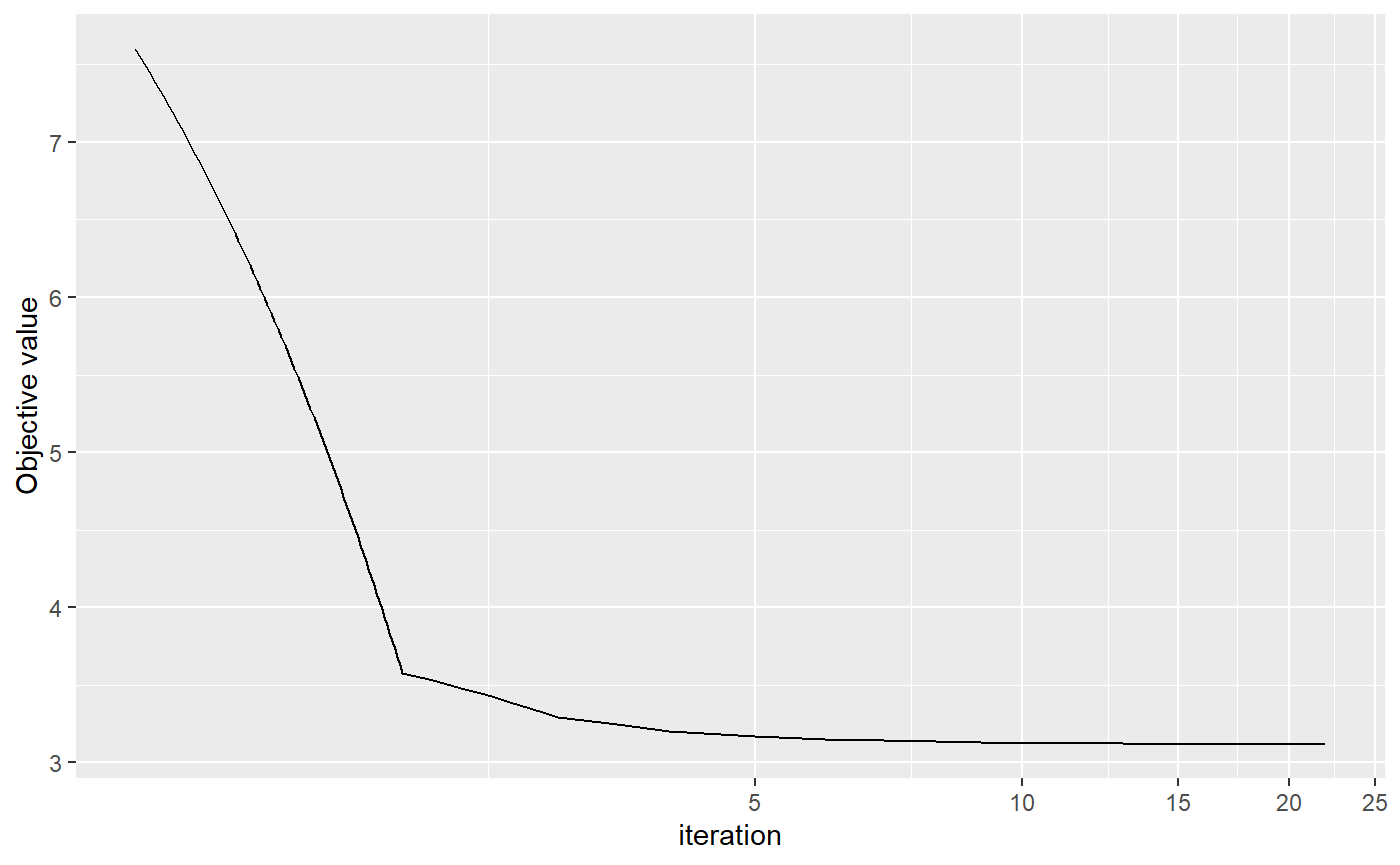
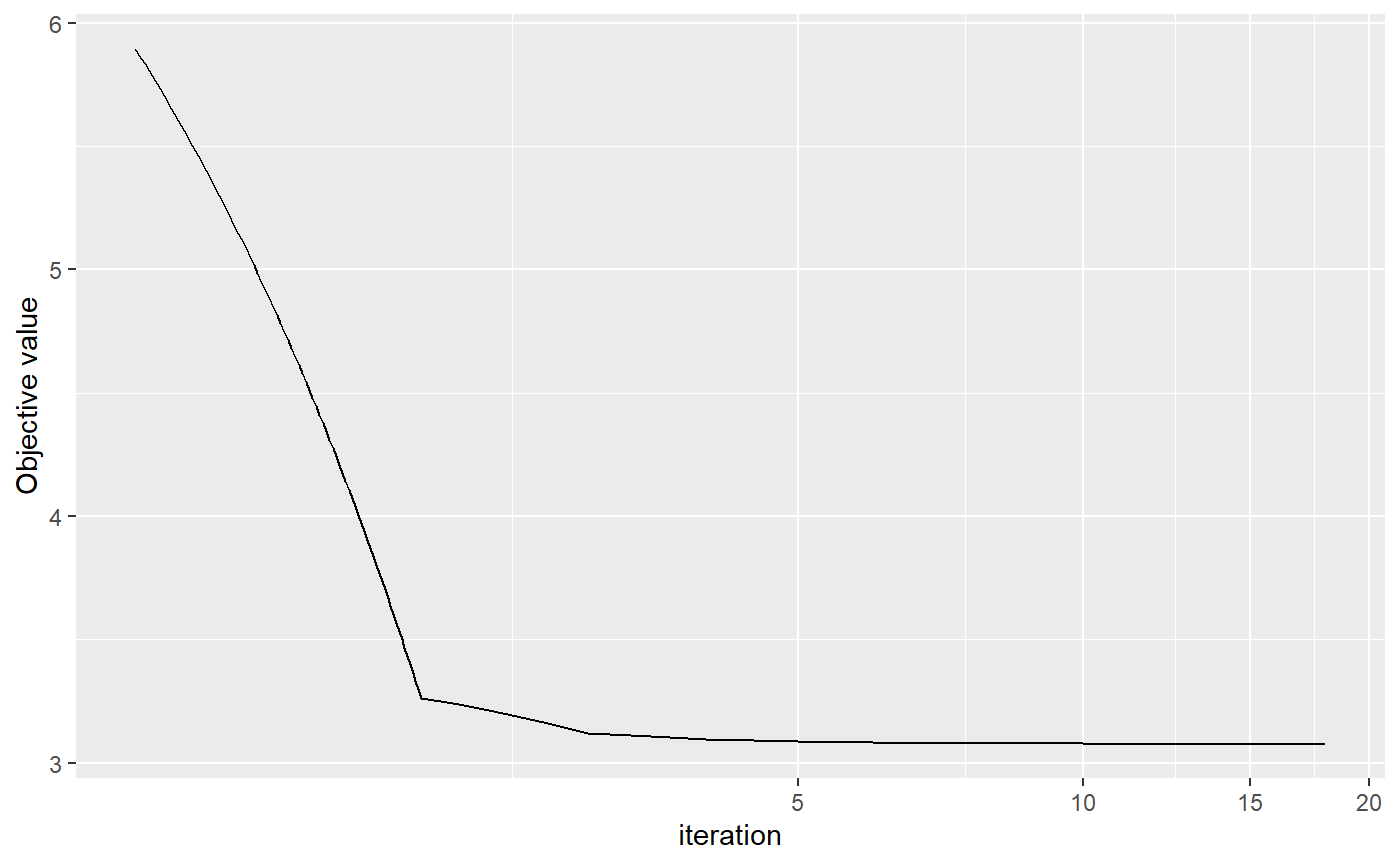
changed update arguments; updated travis version, pkgdown page.

diff --git a/docs/articles/RRRR.html b/docs/articles/RRRR.html
@@ -133,10 +133,10 @@
 <a class="sourceLine" id="cb2-5" title="5"><span class="co">#&gt; Specifications:</span></a>
 <a class="sourceLine" id="cb2-6" title="6"><span class="co">#&gt;    N    P    Q    R    r </span></a>
 <a class="sourceLine" id="cb2-7" title="7"><span class="co">#&gt; 1000    3    3    1    1 </span></a>
-<a class="sourceLine" id="cb2-8" title="8"><span class="co">#&gt;       mu        A       B         D Sigma1 Sigma2 Sigma3</span></a>
-<a class="sourceLine" id="cb2-9" title="9"><span class="co">#&gt; [1,] 0.1  1.72369  1.0446 -0.600472      1      0      0</span></a>
-<a class="sourceLine" id="cb2-10" title="10"><span class="co">#&gt; [2,] 0.1 -0.34443  0.9149 -0.025637      0      1      0</span></a>
-<a class="sourceLine" id="cb2-11" title="11"><span class="co">#&gt; [3,] 0.1  1.11815 -1.7387 -1.000031      0      0      1</span></a></code></pre></div>
+<a class="sourceLine" id="cb2-8" title="8"><span class="co">#&gt;       mu         A        B        D Sigma1 Sigma2 Sigma3</span></a>
+<a class="sourceLine" id="cb2-9" title="9"><span class="co">#&gt; [1,] 0.1  0.983765  0.79694  0.18106      1      0      0</span></a>
+<a class="sourceLine" id="cb2-10" title="10"><span class="co">#&gt; [2,] 0.1 -0.447569  0.40427 -2.10067      0      1      0</span></a>
+<a class="sourceLine" id="cb2-11" title="11"><span class="co">#&gt; [3,] 0.1  0.084875 -0.87175 -1.02911      0      0      1</span></a></code></pre></div>
 <p>A number of parameters can be specified. See <code><a href="../reference/RRR_sim.html">?RRR_sim</a></code>. The default arguments are set in such a way that the matrix resulted from <span class="math inline">\(AB'\)</span> will be a reduced rank coefficient matrix with rank of <span class="math inline">\(r\)</span>.</p>
 <div class="sourceCode" id="cb3"><pre class="sourceCode r"><code class="sourceCode r"><a class="sourceLine" id="cb3-1" title="1"><span class="kw"><a href="https://rdrr.io/r/utils/str.html">str</a></span>(data)</a>
 <a class="sourceLine" id="cb3-2" title="2"><span class="co">#&gt; List of 4</span></a>
@@ -145,16 +145,16 @@
 <a class="sourceLine" id="cb3-5" title="5"><span class="co">#&gt;   ..$ N    : num 1000</span></a>
 <a class="sourceLine" id="cb3-6" title="6"><span class="co">#&gt;   ..$ Q    : num 3</span></a>
 <a class="sourceLine" id="cb3-7" title="7"><span class="co">#&gt;   ..$ R    : num 1</span></a>
-<a class="sourceLine" id="cb3-8" title="8"><span class="co">#&gt;   ..$ A    : num [1:3, 1] 1.724 -0.344 1.118</span></a>
-<a class="sourceLine" id="cb3-9" title="9"><span class="co">#&gt;   ..$ B    : num [1:3, 1] 1.045 0.915 -1.739</span></a>
+<a class="sourceLine" id="cb3-8" title="8"><span class="co">#&gt;   ..$ A    : num [1:3, 1] 0.9838 -0.4476 0.0849</span></a>
+<a class="sourceLine" id="cb3-9" title="9"><span class="co">#&gt;   ..$ B    : num [1:3, 1] 0.797 0.404 -0.872</span></a>
 <a class="sourceLine" id="cb3-10" title="10"><span class="co">#&gt;   ..$ mu   : num [1:3] 0.1 0.1 0.1</span></a>
-<a class="sourceLine" id="cb3-11" title="11"><span class="co">#&gt;   ..$ D    : num [1:3, 1] -0.6005 -0.0256 -1</span></a>
+<a class="sourceLine" id="cb3-11" title="11"><span class="co">#&gt;   ..$ D    : num [1:3, 1] 0.181 -2.101 -1.029</span></a>
 <a class="sourceLine" id="cb3-12" title="12"><span class="co">#&gt;   ..$ r    : num 1</span></a>
 <a class="sourceLine" id="cb3-13" title="13"><span class="co">#&gt;   ..$ Sigma: num [1:3, 1:3] 1 0 0 0 1 0 0 0 1</span></a>
-<a class="sourceLine" id="cb3-14" title="14"><span class="co">#&gt;   ..$ innov: num [1:1000, 1:3] 0.372 -0.787 0.779 1.487 0.531 ...</span></a>
-<a class="sourceLine" id="cb3-15" title="15"><span class="co">#&gt;  $ y   : num [1:1000, 1:3] 6.19 -8.5 -3.42 3.54 -3.08 ...</span></a>
-<a class="sourceLine" id="cb3-16" title="16"><span class="co">#&gt;  $ x   : num [1:1000, 1:3] -0.0822 0.8575 -1.7067 1.7653 -0.7611 ...</span></a>
-<a class="sourceLine" id="cb3-17" title="17"><span class="co">#&gt;  $ z   : num [1:1000] 0.521 0.355 1.062 0.141 0.285 ...</span></a>
+<a class="sourceLine" id="cb3-14" title="14"><span class="co">#&gt;   ..$ innov: num [1:1000, 1:3] -7.651 1.051 -0.242 0.362 -0.533 ...</span></a>
+<a class="sourceLine" id="cb3-15" title="15"><span class="co">#&gt;  $ y   : num [1:1000, 1:3] -7.0634 0.5082 2.1952 -0.0518 -0.4226 ...</span></a>
+<a class="sourceLine" id="cb3-16" title="16"><span class="co">#&gt;  $ x   : num [1:1000, 1:3] 0.155 0.606 1.531 0.243 -1.262 ...</span></a>
+<a class="sourceLine" id="cb3-17" title="17"><span class="co">#&gt;  $ z   : num [1:1000] -0.981 0.0011 -1.5528 -0.1189 1.1397 ...</span></a>
 <a class="sourceLine" id="cb3-18" title="18"><span class="co">#&gt;  - attr(*, "class")= chr [1:2] "RRR_data" "list"</span></a></code></pre></div>
 <p>The returned list of <code>RRR_sim</code> contains the input specifications and the data points <span class="math inline">\(y\)</span>, <span class="math inline">\(x\)</span> and <span class="math inline">\(z\)</span>.</p>
 </div>
@@ -172,10 +172,10 @@
 <a class="sourceLine" id="cb4-7" title="7"><span class="co">#&gt; 1000    3    3    1    1 </span></a>
 <a class="sourceLine" id="cb4-8" title="8"><span class="co">#&gt; </span></a>
 <a class="sourceLine" id="cb4-9" title="9"><span class="co">#&gt; Coefficients:</span></a>
-<a class="sourceLine" id="cb4-10" title="10"><span class="co">#&gt;            mu        A        B         D     Sigma1    Sigma2     Sigma3</span></a>
-<a class="sourceLine" id="cb4-11" title="11"><span class="co">#&gt; [1,] 0.039603 -3.83047 -0.45091 -0.556895  2.7002465 -0.044767 -0.0044944</span></a>
-<a class="sourceLine" id="cb4-12" title="12"><span class="co">#&gt; [2,] 0.183159  0.85461 -0.42058  0.066587 -0.0447670  3.360986  0.0671544</span></a>
-<a class="sourceLine" id="cb4-13" title="13"><span class="co">#&gt; [3,] 0.164763 -2.51181  0.78704 -0.967548 -0.0044944  0.067154  2.7998272</span></a></code></pre></div>
+<a class="sourceLine" id="cb4-10" title="10"><span class="co">#&gt;            mu         A        B        D   Sigma1   Sigma2   Sigma3</span></a>
+<a class="sourceLine" id="cb4-11" title="11"><span class="co">#&gt; [1,] 0.045795 -1.259760 -0.61628  0.21012  4.22605  3.25793 -0.42603</span></a>
+<a class="sourceLine" id="cb4-12" title="12"><span class="co">#&gt; [2,] 0.093288  0.586249 -0.40540 -2.15849  3.25793 11.83386  0.72473</span></a>
+<a class="sourceLine" id="cb4-13" title="13"><span class="co">#&gt; [3,] 0.177268 -0.095891  0.72643 -1.03526 -0.42603  0.72473  2.66495</span></a></code></pre></div>
 <p>The matrix <span class="math inline">\(z\)</span> and the constant <span class="math inline">\(\mu\)</span> term are optional.</p>
 <div class="sourceCode" id="cb5"><pre class="sourceCode r"><code class="sourceCode r"><a class="sourceLine" id="cb5-1" title="1">res_gmle &lt;-<span class="st"> </span><span class="kw"><a href="../reference/RRR.html">RRR</a></span>(<span class="dt">y=</span>data<span class="op">$</span>y, <span class="dt">x=</span>data<span class="op">$</span>x, <span class="dt">z=</span>data<span class="op">$</span>z, <span class="dt">mu =</span> <span class="ot">FALSE</span>)</a>
 <a class="sourceLine" id="cb5-2" title="2">res_gmle &lt;-<span class="st"> </span><span class="kw"><a href="../reference/RRR.html">RRR</a></span>(<span class="dt">y=</span>data<span class="op">$</span>y, <span class="dt">x=</span>data<span class="op">$</span>x, <span class="dt">z=</span><span class="ot">NULL</span>, <span class="dt">mu =</span> <span class="ot">TRUE</span>)</a>
@@ -199,10 +199,10 @@
 <a class="sourceLine" id="cb6-11" title="11"><span class="co">#&gt; 1000    3    3    1    1 </span></a>
 <a class="sourceLine" id="cb6-12" title="12"><span class="co">#&gt; </span></a>
 <a class="sourceLine" id="cb6-13" title="13"><span class="co">#&gt; Coefficients:</span></a>
-<a class="sourceLine" id="cb6-14" title="14"><span class="co">#&gt;            mu       A        B         D    Sigma1     Sigma2    Sigma3</span></a>
-<a class="sourceLine" id="cb6-15" title="15"><span class="co">#&gt; [1,] 0.093236 -1.8420 -0.96372 -0.640782  0.740139 -0.0226235 0.0350687</span></a>
-<a class="sourceLine" id="cb6-16" title="16"><span class="co">#&gt; [2,] 0.136558  0.3579 -0.85394  0.019818 -0.022624  0.7227249 0.0036816</span></a>
-<a class="sourceLine" id="cb6-17" title="17"><span class="co">#&gt; [3,] 0.099127 -1.2053  1.61086 -0.974902  0.035069  0.0036816 0.6687717</span></a></code></pre></div>
+<a class="sourceLine" id="cb6-14" title="14"><span class="co">#&gt;           mu         A        B        D    Sigma1    Sigma2    Sigma3</span></a>
+<a class="sourceLine" id="cb6-15" title="15"><span class="co">#&gt; [1,] 0.10547 -0.603179 -1.25116  0.26056  0.678789 -0.013302 -0.045876</span></a>
+<a class="sourceLine" id="cb6-16" title="16"><span class="co">#&gt; [2,] 0.12150  0.309647 -0.73767 -2.12349 -0.013302  0.714010 -0.057932</span></a>
+<a class="sourceLine" id="cb6-17" title="17"><span class="co">#&gt; [3,] 0.12914 -0.048116  1.48365 -1.10057 -0.045876 -0.057932  0.715509</span></a></code></pre></div>
 <p>Additional arguments that are worth noticing are <code>itr</code>, which control the maximum number of iteration, and <code>earlystop</code>, which is the criteria to stop the algorithm early. The algorithm will stop if the improvement on objective value is small than <code>earlystop</code> <span class="math inline">\(\times\ objective\_from\_last\_iteration\)</span>.</p>
 <p>This method is an iterative optimization algorithm so we can use the inbuilt <code>plot.RRRR</code> method to see the convergence plot of the algorithm.</p>
 <div class="sourceCode" id="cb7"><pre class="sourceCode r"><code class="sourceCode r"><a class="sourceLine" id="cb7-1" title="1"><span class="kw"><a href="https://rdrr.io/r/graphics/plot.html">plot</a></span>(res_mm, <span class="dt">aes_x =</span> <span class="st">"iteration"</span>, <span class="dt">xlog10 =</span> <span class="ot">TRUE</span>)</a></code></pre></div>
@@ -233,10 +233,10 @@
 <a class="sourceLine" id="cb8-10" title="10"><span class="co">#&gt;         1000            3            1            1          100           10 </span></a>
 <a class="sourceLine" id="cb8-11" title="11"><span class="co">#&gt; </span></a>
 <a class="sourceLine" id="cb8-12" title="12"><span class="co">#&gt; Coefficients:</span></a>
-<a class="sourceLine" id="cb8-13" title="13"><span class="co">#&gt;            mu        A        B         D    Sigma1     Sigma2    Sigma3</span></a>
-<a class="sourceLine" id="cb8-14" title="14"><span class="co">#&gt; [1,] 0.092680 -1.85501 -0.95653 -0.641790  0.754996 -0.0226581 0.0354821</span></a>
-<a class="sourceLine" id="cb8-15" title="15"><span class="co">#&gt; [2,] 0.137085  0.36005 -0.84807  0.019634 -0.022658  0.7378883 0.0033199</span></a>
-<a class="sourceLine" id="cb8-16" title="16"><span class="co">#&gt; [3,] 0.099346 -1.21334  1.59930 -0.975143  0.035482  0.0033199 0.6815613</span></a></code></pre></div>
+<a class="sourceLine" id="cb8-13" title="13"><span class="co">#&gt;           mu         A        B        D    Sigma1    Sigma2    Sigma3</span></a>
+<a class="sourceLine" id="cb8-14" title="14"><span class="co">#&gt; [1,] 0.10230 -0.605474 -1.24821  0.26002  0.684516 -0.015485 -0.045419</span></a>
+<a class="sourceLine" id="cb8-15" title="15"><span class="co">#&gt; [2,] 0.11987  0.309004 -0.73794 -2.12325 -0.015485  0.719541 -0.058043</span></a>
+<a class="sourceLine" id="cb8-16" title="16"><span class="co">#&gt; [3,] 0.13023 -0.048169  1.47921 -1.10232 -0.045419 -0.058043  0.719395</span></a></code></pre></div>
 <p>The simulated data set is of size 1000. In the above command, in the first iteration 100 realisations are used in the estimation with 10 more data points in each of the following iteration. Because of the increasing data size, the estimation will be slower the longer the algorithm run. Therefore, the estimated time left in the progress bar is not very accurate in this sense.</p>
 <p>The output from <code>ORRRR</code> can also plotted using <code>plot.RRRR</code>.</p>
 <div class="sourceCode" id="cb9"><pre class="sourceCode r"><code class="sourceCode r"><a class="sourceLine" id="cb9-1" title="1"><span class="kw"><a href="https://rdrr.io/r/graphics/plot.html">plot</a></span>(res_smm)</a></code></pre></div>
@@ -259,7 +259,7 @@
 </h2>
 <p>With the result from <code>ORRRR</code>, user can still update it with newly achieved data using function <code>update</code>. Note the result from <code>RRRR</code> can also be updated where it simply takes the result from <code>RRRR</code> as the starting point in online estimation.</p>
 <div class="sourceCode" id="cb11"><pre class="sourceCode r"><code class="sourceCode r"><a class="sourceLine" id="cb11-1" title="1">newdata &lt;-<span class="st"> </span><span class="kw"><a href="../reference/RRR_sim.html">RRR_sim</a></span>()</a>
-<a class="sourceLine" id="cb11-2" title="2">res2_smm &lt;-<span class="st"> </span><span class="kw"><a href="https://rdrr.io/r/stats/update.html">update</a></span>(res_smm, <span class="dt">y=</span>newdata<span class="op">$</span>y, <span class="dt">x=</span>newdata<span class="op">$</span>x, <span class="dt">z=</span>newdata<span class="op">$</span>z)</a>
+<a class="sourceLine" id="cb11-2" title="2">res2_smm &lt;-<span class="st"> </span><span class="kw"><a href="https://rdrr.io/r/stats/update.html">update</a></span>(res_smm, <span class="dt">newy=</span>newdata<span class="op">$</span>y, <span class="dt">newx=</span>newdata<span class="op">$</span>x, <span class="dt">newz=</span>newdata<span class="op">$</span>z)</a>
 <a class="sourceLine" id="cb11-3" title="3">res2_smm</a>
 <a class="sourceLine" id="cb11-4" title="4"><span class="co">#&gt; Online Robust Reduced-Rank Regression</span></a>
 <a class="sourceLine" id="cb11-5" title="5"><span class="co">#&gt; ------</span></a>
@@ -270,10 +270,10 @@
 <a class="sourceLine" id="cb11-10" title="10"><span class="co">#&gt;         2000            3            1            1         1010           10 </span></a>
 <a class="sourceLine" id="cb11-11" title="11"><span class="co">#&gt; </span></a>
 <a class="sourceLine" id="cb11-12" title="12"><span class="co">#&gt; Coefficients:</span></a>
-<a class="sourceLine" id="cb11-13" title="13"><span class="co">#&gt;           mu        A       B        D   Sigma1   Sigma2   Sigma3</span></a>
-<a class="sourceLine" id="cb11-14" title="14"><span class="co">#&gt; [1,] 0.08517 -0.90130 -1.0060 -0.86643  2.80619 -0.46104  1.22083</span></a>
-<a class="sourceLine" id="cb11-15" title="15"><span class="co">#&gt; [2,] 0.10249  0.16415 -1.0530  0.13410 -0.46104  0.87152 -0.24126</span></a>
-<a class="sourceLine" id="cb11-16" title="16"><span class="co">#&gt; [3,] 0.14981 -0.61164  2.0253 -0.95910  1.22083 -0.24126  1.54696</span></a></code></pre></div>
+<a class="sourceLine" id="cb11-13" title="13"><span class="co">#&gt;            mu       A        B        D Sigma1  Sigma2  Sigma3</span></a>
+<a class="sourceLine" id="cb11-14" title="14"><span class="co">#&gt; [1,] 0.134625 0.97269  1.97904  0.24345 5.1794 2.47553 1.52633</span></a>
+<a class="sourceLine" id="cb11-15" title="15"><span class="co">#&gt; [2,] 0.169277 0.10070  1.15413 -1.37367 2.4755 3.08741 0.88236</span></a>
+<a class="sourceLine" id="cb11-16" title="16"><span class="co">#&gt; [3,] 0.085701 0.23743 -0.58785 -1.08136 1.5263 0.88236 1.34380</span></a></code></pre></div>
 <p>Without other arguments specified, <code>update</code> will just take the original specification in the model. If it applies to output of <code>RRRR</code>, then the default would be the default arguments in <code>ORRRR</code>, i.e., with <code>method</code> set to “SMM” and <code>addon</code> set to 10.</p>
 </div>
 <div id="ref" class="section level2">

diff --git a/docs/reference/index.html b/docs/reference/index.html
@@ -132,34 +132,44 @@
     <tbody>
       <tr>
         <th colspan="2">
-          <h2 id="section-all-functions" class="hasAnchor"><a href="#section-all-functions" class="anchor"></a>All functions</h2>
+          <h2 id="section-package" class="hasAnchor"><a href="#section-package" class="anchor"></a>Package</h2>
           <p class="section-desc"></p>
         </th>
       </tr>
       <tr>
         
         <td>
-          <p><code><a href="ORRRR.html">ORRRR()</a></code> </p>
+          <p><code><a href="RRRR-package.html">RRRR-package</a></code> </p>
         </td>
-        <td><p>Online Robust Reduced-Rank Regression</p></td>
-      </tr><tr>
+        <td><p>Online Robust Reduced-Rank Regression Estimation</p></td>
+      </tr>
+    </tbody><tbody>
+      <tr>
+        <th colspan="2">
+          <h2 id="section-simulation-function" class="hasAnchor"><a href="#section-simulation-function" class="anchor"></a>Simulation function</h2>
+          <p class="section-desc"></p>
+        </th>
+      </tr>
+      <tr>
         
         <td>
-          <p><code><a href="plot.RRRR.html">plot(<i>&lt;RRRR&gt;</i>)</a></code> </p>
+          <p><code><a href="RRR_sim.html">RRR_sim()</a></code> </p>
         </td>
-        <td><p>Plot Objective value of a Robust Reduced-Rank Regression</p></td>
-      </tr><tr>
+        <td><p>Simulating data for Reduced-Rank Regression</p></td>
+      </tr>
+    </tbody><tbody>
+      <tr>
+        <th colspan="2">
+          <h2 id="section-estimation-functions" class="hasAnchor"><a href="#section-estimation-functions" class="anchor"></a>Estimation functions</h2>
+          <p class="section-desc"></p>
+        </th>
+      </tr>
+      <tr>
         
         <td>
           <p><code><a href="RRR.html">RRR()</a></code> </p>
         </td>
         <td><p>Reduced-Rank Regression using Gaussian MLE</p></td>
-      </tr><tr>
-        
-        <td>
-          <p><code><a href="RRRR-package.html">RRRR-package</a></code> </p>
-        </td>
-        <td><p>Online Robust Reduced-Rank Regression Estimation</p></td>
       </tr><tr>
         
         <td>
@@ -169,15 +179,37 @@
       </tr><tr>
         
         <td>
-          <p><code><a href="RRR_sim.html">RRR_sim()</a></code> </p>
+          <p><code><a href="ORRRR.html">ORRRR()</a></code> </p>
         </td>
-        <td><p>Simulating data for Reduced-Rank Regression</p></td>
-      </tr><tr>
+        <td><p>Online Robust Reduced-Rank Regression</p></td>
+      </tr>
+    </tbody><tbody>
+      <tr>
+        <th colspan="2">
+          <h2 id="section-update-function" class="hasAnchor"><a href="#section-update-function" class="anchor"></a>Update function</h2>
+          <p class="section-desc"></p>
+        </th>
+      </tr>
+      <tr>
         
         <td>
           <p><code><a href="update.RRRR.html">update(<i>&lt;RRRR&gt;</i>)</a></code> </p>
         </td>
         <td><p>Update the RRRR/ORRRR type model with addition data</p></td>
+      </tr>
+    </tbody><tbody>
+      <tr>
+        <th colspan="2">
+          <h2 id="section-plot-method" class="hasAnchor"><a href="#section-plot-method" class="anchor"></a>Plot method</h2>
+          <p class="section-desc"></p>
+        </th>
+      </tr>
+      <tr>
+        
+        <td>
+          <p><code><a href="plot.RRRR.html">plot(<i>&lt;RRRR&gt;</i>)</a></code> </p>
+        </td>
+        <td><p>Plot Objective value of a Robust Reduced-Rank Regression</p></td>
       </tr>
     </tbody>
     </table>
@@ -186,7 +218,11 @@
   <div class="col-md-3 hidden-xs hidden-sm" id="sidebar">
     <h2>Contents</h2>
     <ul class="nav nav-pills nav-stacked">
-      <li><a href="#section-all-functions">All functions</a></li>
+      <li><a href="#section-package">Package</a></li>
+      <li><a href="#section-simulation-function">Simulation function</a></li>
+      <li><a href="#section-estimation-functions">Estimation functions</a></li>
+      <li><a href="#section-update-function">Update function</a></li>
+      <li><a href="#section-plot-method">Plot method</a></li>
     </ul>
   </div>
 </div>

diff --git a/docs/reference/update.RRRR.html b/docs/reference/update.RRRR.html
@@ -146,9 +146,9 @@ Estimation methods:</p><dl class='dl-horizontal'>
     <pre class="usage"><span class='co'># S3 method for RRRR</span>
 <span class='fu'><a href='https://rdrr.io/r/stats/update.html'>update</a></span>(
   <span class='no'>object</span>,
-  <span class='no'>y</span>,
-  <span class='no'>x</span>,
-  <span class='kw'>z</span> <span class='kw'>=</span> <span class='kw'>NULL</span>,
+  <span class='no'>newy</span>,
+  <span class='no'>newx</span>,
+  <span class='kw'>newz</span> <span class='kw'>=</span> <span class='kw'>NULL</span>,
   <span class='kw'>addon</span> <span class='kw'>=</span> <span class='no'>object</span>$<span class='no'>spec</span>$<span class='no'>addon</span>,
   <span class='kw'>method</span> <span class='kw'>=</span> <span class='no'>object</span>$<span class='no'>method</span>,
   <span class='kw'>SAAmethod</span> <span class='kw'>=</span> <span class='no'>object</span>$<span class='no'>SAAmethod</span>,
@@ -164,15 +164,15 @@ Estimation methods:</p><dl class='dl-horizontal'>
       <td><p>A model with class <code>RRRR</code>(<code>ORRRR</code>)</p></td>
     </tr>
     <tr>
-      <th>y</th>
+      <th>newy</th>
       <td><p>Matrix of dimension N*P, the new data y. The matrix for the response variables. See <code>Detail</code>.</p></td>
     </tr>
     <tr>
-      <th>x</th>
+      <th>newx</th>
       <td><p>Matrix of dimension N*Q, the new data x. The matrix for the explanatory variables to be projected. See <code>Detail</code>.</p></td>
     </tr>
     <tr>
-      <th>z</th>
+      <th>newz</th>
       <td><p>Matrix of dimension N*R, the new data z. The matrix for the explanatory variables not to be projected. See <code>Detail</code>.</p></td>
     </tr>
     <tr>
@@ -247,7 +247,7 @@ the innovation's distribution.</p>
 <span class='no'>data</span> <span class='kw'>&lt;-</span> <span class='fu'><a href='RRR_sim.html'>RRR_sim</a></span>()
 <span class='no'>newdata</span> <span class='kw'>&lt;-</span> <span class='fu'><a href='RRR_sim.html'>RRR_sim</a></span>()
 <span class='no'>res</span> <span class='kw'>&lt;-</span> <span class='fu'><a href='ORRRR.html'>ORRRR</a></span>(<span class='kw'>y</span><span class='kw'>=</span><span class='no'>data</span>$<span class='no'>y</span>, <span class='kw'>x</span><span class='kw'>=</span><span class='no'>data</span>$<span class='no'>x</span>, <span class='kw'>z</span> <span class='kw'>=</span> <span class='no'>data</span>$<span class='no'>z</span>)
-<span class='no'>res</span> <span class='kw'>&lt;-</span> <span class='fu'><a href='https://rdrr.io/r/stats/update.html'>update</a></span>(<span class='no'>res</span>, <span class='kw'>y</span><span class='kw'>=</span><span class='no'>newdata</span>$<span class='no'>y</span>, <span class='kw'>x</span><span class='kw'>=</span><span class='no'>newdata</span>$<span class='no'>x</span>, <span class='kw'>z</span><span class='kw'>=</span><span class='no'>newdata</span>$<span class='no'>z</span>)
+<span class='no'>res</span> <span class='kw'>&lt;-</span> <span class='fu'><a href='https://rdrr.io/r/stats/update.html'>update</a></span>(<span class='no'>res</span>, <span class='kw'>newy</span><span class='kw'>=</span><span class='no'>newdata</span>$<span class='no'>y</span>, <span class='kw'>newx</span><span class='kw'>=</span><span class='no'>newdata</span>$<span class='no'>x</span>, <span class='kw'>newz</span><span class='kw'>=</span><span class='no'>newdata</span>$<span class='no'>z</span>)
 <span class='no'>res</span></div><div class='output co'>#&gt; Online Robust Reduced-Rank Regression
 #&gt; ------
 #&gt; Stochastic Majorisation-Minimisation
